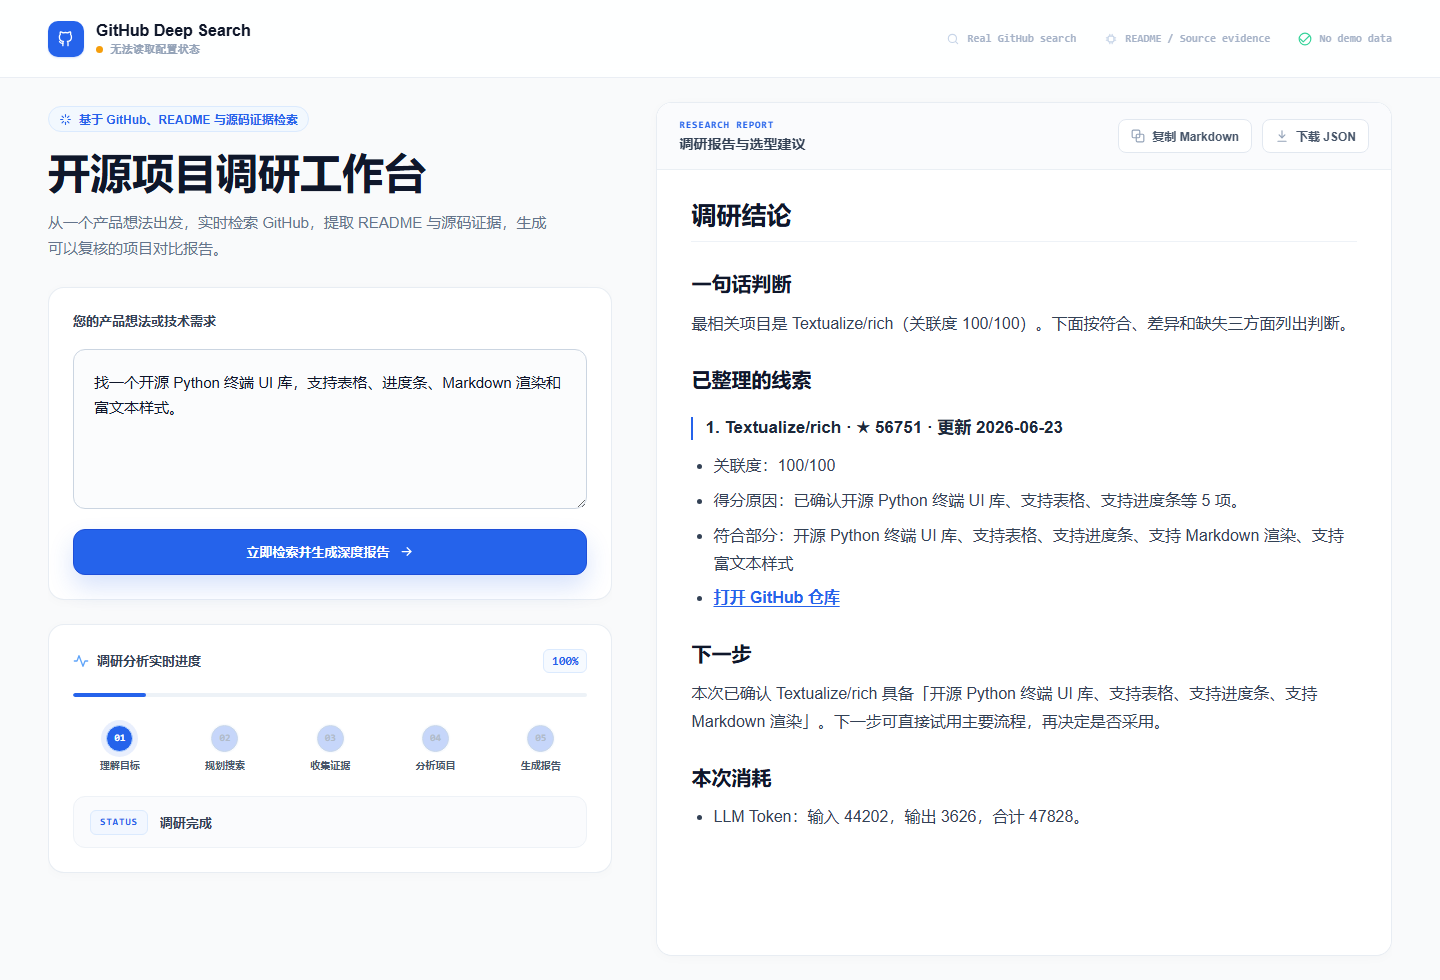
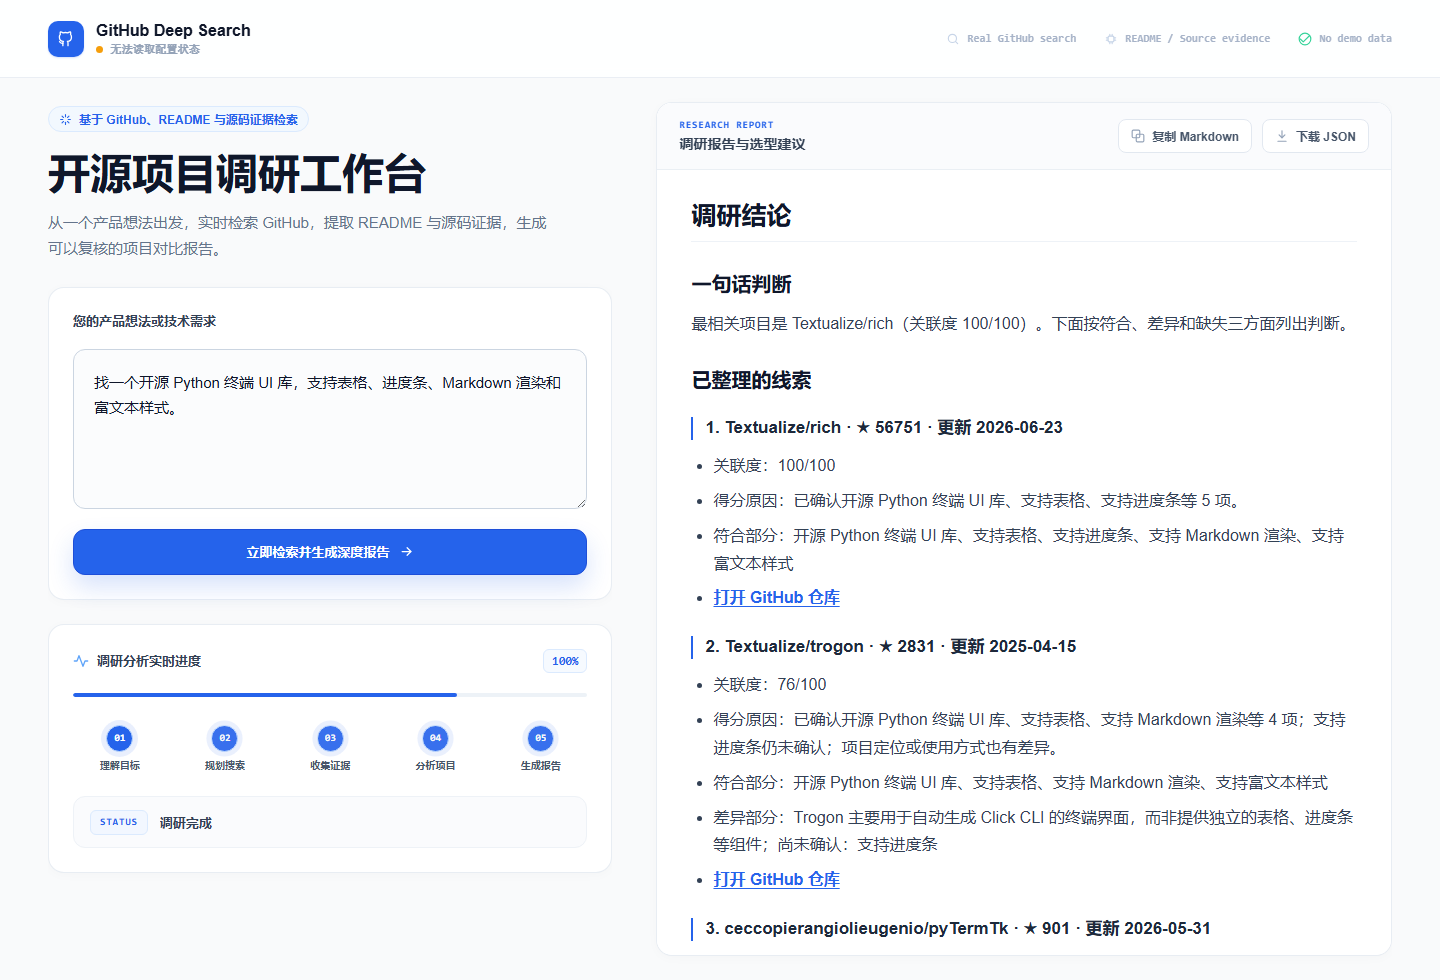
Fill top results with evidence-backed alternatives

Changed region(s): [[0.4688, 0.6429, 0.9375, 0.9796], [0.0938, 0.7041, 0.3125, 0.7653], [0.3438, 0.7347, 0.4062, 0.7653]]

diff --git a/github_deep_search/engine.py b/github_deep_search/engine.py
@@ -554,11 +554,13 @@ class DeepSearchEngine:
                 if self._same_query_language(domain, target):
                     core_queries.append(f"{domain} {target}")
         if core_feature:
+            core_aliases = self._feature_aliases(core_feature, requirement)
             aliases = [
                 alias
-                for alias in sorted(self._feature_aliases(core_feature, requirement), key=self._query_specificity_key)
+                for alias in sorted(core_aliases, key=self._query_specificity_key)
                 if self._searchable_repo_phrase(alias, core_feature)
             ]
+            aliases.extend(self._combined_core_alias_queries(core_aliases))
             core_queries.extend(aliases)
         core_queries.extend(domains[:4])
         channel_queries = requirement.repo_search_queries or requirement.search_queries
@@ -607,6 +609,26 @@ class DeepSearchEngine:
         if self._same_feature_key(phrase, core_feature):
             return len(meaningful) >= 2
         return len(meaningful) >= (1 if allow_single_signal else 2)
+
+    def _combined_core_alias_queries(self, aliases: set[str]) -> list[str]:
+        single_signal_aliases: list[str] = []
+        multi_signal_aliases: list[str] = []
+        for alias in aliases:
+            signals = self._semantic_signals(alias) - self._generic_search_signals()
+            if len(signals) == 1 and re.fullmatch(r"[A-Za-z][A-Za-z0-9_.-]{1,}", alias.strip()):
+                single_signal_aliases.append(alias.strip())
+            elif len(signals) >= 1:
+                multi_signal_aliases.append(alias.strip())
+        combined: list[str] = []
+        for left_index, left in enumerate(sorted(single_signal_aliases, key=str.lower)):
+            for right in sorted(single_signal_aliases, key=str.lower)[left_index + 1 :]:
+                combined.append(f"{left} {right}")
+        for single in sorted(single_signal_aliases, key=str.lower):
+            for phrase in sorted(multi_signal_aliases, key=self._query_specificity_key):
+                if single.lower() in phrase.lower():
+                    continue
+                combined.append(f"{single} {phrase}")
+        return self._merge_queries(combined, limit=8)
 
     @staticmethod
     def _generic_search_signals() -> set[str]:
@@ -892,6 +914,7 @@ class DeepSearchEngine:
         alias_terms = self._requirement_aliases(requirement)
         concept_groups = self._requirement_concept_groups(requirement)
         domain_aliases = {item.lower() for item in (requirement.feature_concepts or {}).get("domains", [])}
+        desired_languages = self._requirement_language_constraints(requirement, candidates)
         for repo in candidates:
             strong_haystack = " ".join([repo.name, repo.description, repo.language or "", " ".join(repo.topics)])
             weak_haystack = repo.readme[:12000]
@@ -919,6 +942,15 @@ class DeepSearchEngine:
                     domain_bonus = 8
                 else:
                     domain_bonus = -60
+            language_bonus = 0
+            if desired_languages:
+                repo_language = str(repo.language or "").strip().lower()
+                if repo_language in desired_languages:
+                    language_bonus = 28
+                elif repo_language:
+                    language_bonus = -45
+                else:
+                    language_bonus = -12
             specificity_bonus = min(12, max(0, covered_groups - 2) * 4)
             repo.core_signal_score = self._core_direction_score(requirement, repo)
             core_bonus = repo.core_signal_score * 18
@@ -931,12 +963,34 @@ class DeepSearchEngine:
                 + freshness
                 + readme_bonus
                 + domain_bonus
+                + language_bonus
                 + specificity_bonus
                 + core_bonus
             )
             if self._is_catalog_repository(repo):
                 repo.raw_score = min(repo.raw_score, 15)
         return sorted(candidates, key=lambda item: item.raw_score, reverse=True)
+
+    def _requirement_language_constraints(
+        self,
+        requirement: Requirement,
+        candidates: list[CandidateRepository],
+    ) -> set[str]:
+        candidate_languages = {str(repo.language or "").strip().lower() for repo in candidates if repo.language}
+        if not candidate_languages:
+            return set()
+        concepts = requirement.feature_concepts or {}
+        text = " ".join(
+            [
+                requirement.raw,
+                requirement.intent,
+                " ".join(requirement.target_platforms),
+                " ".join(concepts.get("interfaces", [])),
+                " ".join(concepts.get("literal_keywords", [])),
+            ]
+        ).lower()
+        tokens = set(re.findall(r"[a-z][a-z0-9_.+-]{1,}", text))
+        return {language for language in candidate_languages if language in tokens}
 
     def _core_direction_score(self, requirement: Requirement, repo: CandidateRepository) -> float:
         core_feature = self._core_requirement_feature(requirement)
@@ -2285,8 +2339,11 @@ class DeepSearchEngine:
         eligible_references = [
             item
             for item in remaining
-            if item.match_score >= minimum_reference_score
-            and (item.core_confirmed or not item.core_feature)
+            if self._is_evidence_backed_reference_candidate(
+                item,
+                minimum_score=minimum_reference_score,
+                require_core_confirmed=bool(selected),
+            )
             and self._is_usable_reference_candidate(item, requirement)
         ]
         references: list[ProjectAnalysis] = []
@@ -2350,6 +2407,16 @@ class DeepSearchEngine:
                 + ", ".join(item.repo.full_name for item in adjacent)
             )
         return selected
+
+    @staticmethod
+    def _is_evidence_backed_reference_candidate(
+        analysis: ProjectAnalysis,
+        minimum_score: int,
+        require_core_confirmed: bool,
+    ) -> bool:
+        if require_core_confirmed:
+            return analysis.core_confirmed and analysis.match_score >= 20
+        return analysis.match_score >= minimum_score and (analysis.core_confirmed or not analysis.core_feature)
 
     def _fallback_low_similarity_leads(
         self,

diff --git a/tests/test_evidence_gate.py b/tests/test_evidence_gate.py
@@ -1193,6 +1193,46 @@ def test_result_tiers_fill_in_reliable_reference_adjacent_order() -> None:
     assert selected[1].confidence_level == "reference"
 
 
+def test_reliable_result_is_filled_with_core_confirmed_references_for_top3() -> None:
+    engine = DeepSearchEngine()
+    usage = BudgetUsage()
+
+    def project(name: str, score: int, *, core_confirmed: bool) -> ProjectAnalysis:
+        repo = CandidateRepository(
+            owner="demo",
+            name=name,
+            url=f"https://github.com/demo/{name}",
+            raw_score=score,
+        )
+        return ProjectAnalysis(
+            repo=repo,
+            match_score=score,
+            recommendation="candidate",
+            directly_usable=score >= 50,
+            covered_features=["core"],
+            missing_features=[],
+            required_changes=[],
+            risks=[],
+            evidence=[],
+            core_feature="core",
+            core_confirmed=core_confirmed,
+            evidence_coverage=[
+                EvidenceCoverage(feature="core", covered=core_confirmed, status="supported" if core_confirmed else "unknown")
+            ],
+        )
+
+    reliable = project("reliable", 100, core_confirmed=True)
+    reference = project("reference", 31, core_confirmed=True)
+    lower_reference = project("lower-reference", 21, core_confirmed=True)
+    noisy = project("noisy", 45, core_confirmed=False)
+
+    selected = engine._with_reference_candidates([reliable], [noisy, reference, lower_reference], usage)
+
+    assert [item.repo.name for item in selected] == ["reliable", "reference", "lower-reference"]
+    assert selected[1].confidence_level == "reference"
+    assert selected[2].confidence_level == "reference"
+
+
 def test_repo_search_uses_core_evidence_aliases_without_domain_word_pack() -> None:
     engine = DeepSearchEngine()
     requirement = Requirement(

diff --git a/tests/test_search_recall.py b/tests/test_search_recall.py
@@ -90,6 +90,7 @@ def test_chinese_terminal_ui_query_uses_specific_alias_phrases_for_repo_search()
     planned = engine._planned_repo_search_queries(requirement, "detailed", "continue")
 
     assert any("terminal ui library" in item.lower() for item in planned)
+    assert any("python tui" in item.lower() for item in planned)
     assert "python" not in planned
     assert engine._to_github_repo_query("开源 Python 终端 UI 库") == "Python 终端 UI in:name,description,readme"
     assert "terminal ui library" in engine._requirement_aliases(requirement)
@@ -148,6 +149,42 @@ def test_core_alias_counts_when_domain_concepts_use_another_language() -> None:
     )
 
     assert engine._core_direction_score(requirement, repo) > 0
+
+
+def test_ranking_prefers_requested_repository_language_from_current_requirement() -> None:
+    engine = DeepSearchEngine()
+    requirement = Requirement(
+        raw="Need a Python terminal UI library",
+        intent="Find Python terminal UI library",
+        must_have_features=["Python terminal UI library"],
+        nice_to_have_features=[],
+        target_platforms=["Python API"],
+        search_queries=["Python terminal UI library"],
+        feature_concepts={"interfaces": ["Python API"], "domains": ["terminal UI"]},
+        evidence_aliases={"Python terminal UI library": ["Python terminal UI library", "TUI"]},
+    )
+    python_repo = CandidateRepository(
+        owner="demo",
+        name="python-ui",
+        url="https://github.com/demo/python-ui",
+        description="Terminal UI library for Python applications.",
+        language="Python",
+        topics=["terminal-ui"],
+        readme="Terminal UI library for Python applications.",
+    )
+    other_repo = CandidateRepository(
+        owner="demo",
+        name="other-ui",
+        url="https://github.com/demo/other-ui",
+        description="Terminal UI library for command line applications.",
+        language="Go",
+        topics=["terminal-ui"],
+        readme="Terminal UI library for command line applications.",
+    )
+
+    ranked = engine._rank_candidates(requirement, [other_repo, python_repo])
+
+    assert ranked[0].full_name == "demo/python-ui"
 
 
 def test_evidence_gate_accepts_current_aliases_and_plural_readme_terms() -> None:

diff --git a/docs/REAL_RUNS.md b/docs/REAL_RUNS.md
@@ -2,26 +2,25 @@
 
 These assets are captured from real local runs. They are not loaded by the application and are not used as seeded result data.
 
-## 2026-06-30: Python Terminal UI Library Search
+## 2026-07-03: Python Terminal UI Library Search
 
 Query:
 
 ```text
-Find an open-source Python terminal UI library that supports tables, progress bars, markdown rendering, and rich text styling.
+找一个开源 Python 终端 UI 库，支持表格、进度条、Markdown 渲染和富文本样式。
 ```
 
 Captured assets:
 
-- [README highlight screenshot](assets/real-run-highlight.png)
-- [Ready state screenshot](assets/real-search-ready.png)
-- [Full result screenshot](assets/real-run-report.png)
-- [README-cropped result screenshot](assets/real-run-report-cropped.png)
+- [Web workbench screenshot](assets/web-workbench-20260702.png)
+- [Web result screenshot](assets/web-result-20260702.png)
 
 Observed result summary:
 
-- Top result: `Textualize/rich`
-- Secondary/reference results visible in the capture: `pemistahl/grex`, `gitpython-developers/GitPython`
-- Reported LLM usage: 38,236 input tokens, 3,386 output tokens, 41,622 total tokens
+- Top result: `Textualize/rich` (100/100)
+- Secondary results visible in the capture: `Textualize/trogon` (76/100), `ceccopierangiolieugenio/pyTermTk` (74/100)
+- The refreshed result demonstrates the Top 3 output path with evidence-backed alternatives instead of a single perfect-match item.
+- Exact LLM and GitHub usage are recorded in each exported JSON report and vary by configured provider, model, and search budget.
 - The run used locally configured provider credentials; no API key values are stored in this repository.
 
 Trust boundary:
@@ -29,4 +28,4 @@ Trust boundary:
 - These screenshots are documentation evidence of a real run, not an in-app demo mode.
 - The runtime does not read these image files.
 - The runtime does not contain bundled reports, fake repositories, seeded rankings, repository allowlists, or static product-domain keyword packs.
-- Future screenshots should include the query, capture date, and recorded usage so users can judge freshness and cost.
+- Future screenshots should include the query, capture date, result list, and exported usage metadata so users can judge freshness and cost.

diff --git a/README.md b/README.md
@@ -78,8 +78,9 @@ python scripts/start_web.py
 | 项目 | 本次真实记录 |
 | --- | --- |
 | 查询 | `找一个开源 Python 终端 UI 库，支持表格、进度条、Markdown 渲染和富文本样式。` |
-| Top 结果 | `Textualize/rich` |
-| 报告消耗 | 输入 `38,236` tokens，输出 `3,386` tokens |
+| Top 3 结果 | `Textualize/rich`、`Textualize/trogon`、`ceccopierangiolieugenio/pyTermTk` |
+| 报告消耗 | 每次导出的 JSON 会记录 GitHub 请求数与 LLM tokens，具体数值随 provider、模型和搜索预算变化 |
+| 结果来源 | 真实 GitHub 检索与证据分析，截图不是内置 demo 数据 |
 | 完整记录 | [docs/REAL_RUNS.md](docs/REAL_RUNS.md) |
 
 ## API Key 与消耗